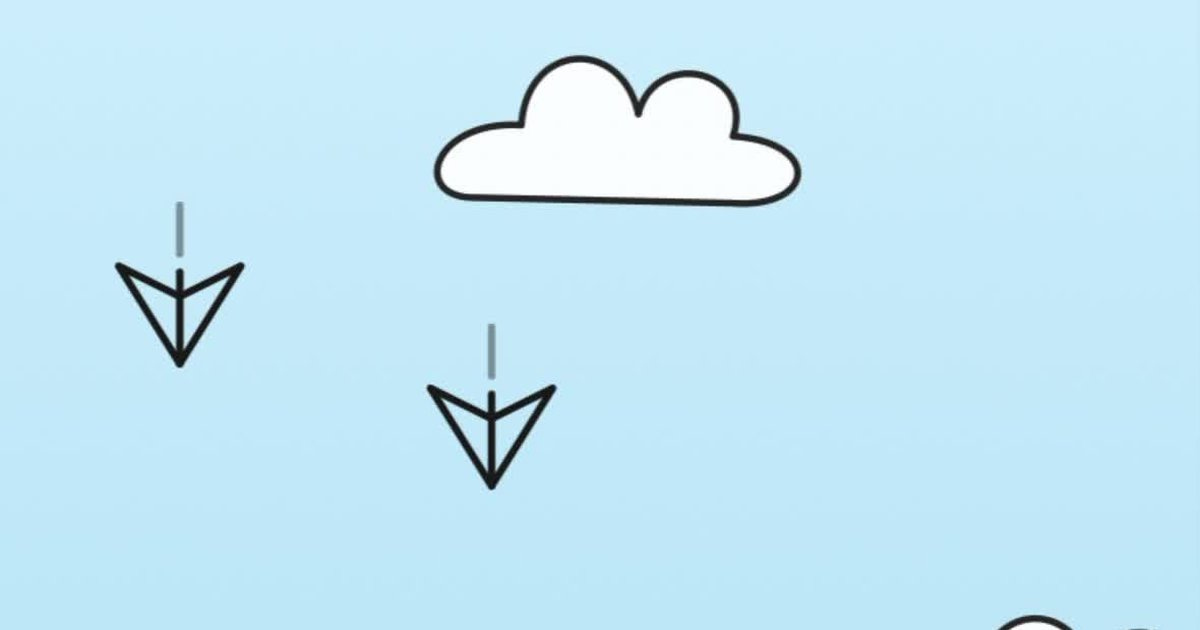
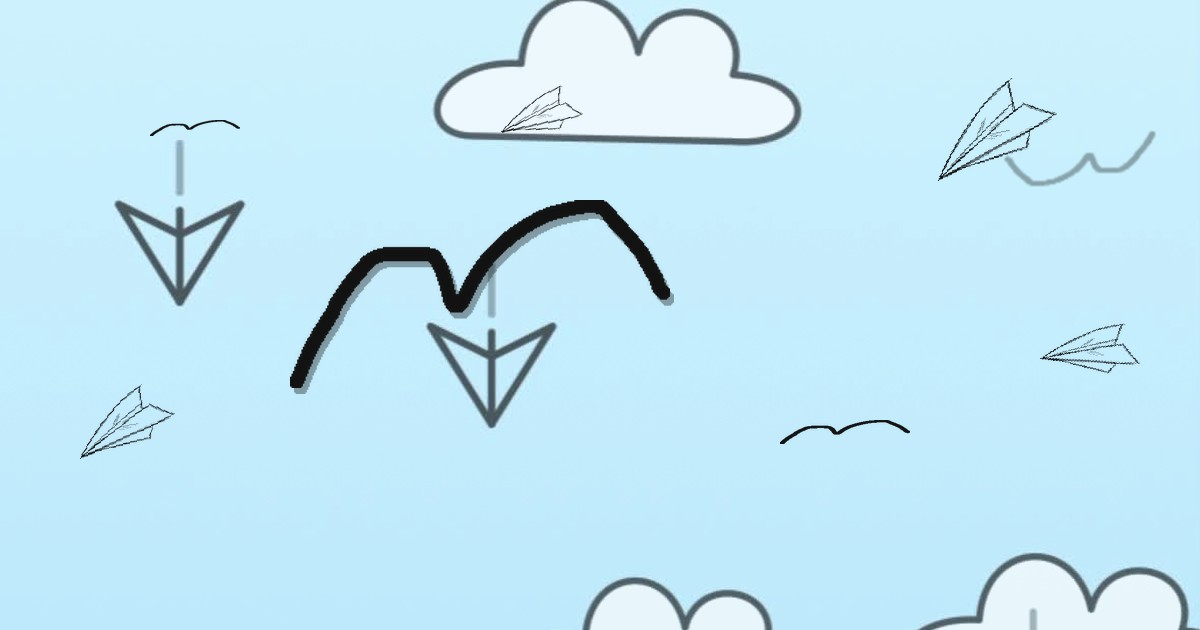
Richer OG with player bird; solid centered QR card

diff --git a/get/index.html b/get/index.html
@@ -13,7 +13,7 @@
 <meta property="og:url" content="https://playflyby.com/get" />
 <meta property="og:title" content="flyBy — free on the App Store" />
 <meta property="og:description" content="Free endless flyer. Drag to fly. Dodge the planes. US App Store." />
-<meta property="og:image" content="https://playflyby.com/art/og-share.png?v=2" />
+<meta property="og:image" content="https://playflyby.com/art/og-share.png?v=3" />
 <meta property="og:image:width" content="1200" />
 <meta property="og:image:height" content="630" />
 <meta property="og:image:alt" content="flyBy sky gameplay — drag to fly, dodge planes" />
@@ -21,7 +21,7 @@
 <meta name="twitter:card" content="summary_large_image" />
 <meta name="twitter:title" content="flyBy — free on the App Store" />
 <meta name="twitter:description" content="Free endless flyer. Drag to fly. Dodge the planes. US App Store." />
-<meta name="twitter:image" content="https://playflyby.com/art/og-share.png?v=2" />
+<meta name="twitter:image" content="https://playflyby.com/art/og-share.png?v=3" />
 
 <style>
   :root {
@@ -112,20 +112,28 @@
   .btn svg { flex-shrink: 0; }
   .qr-wrap {
     flex: 0 0 auto;
+    display: flex;
+    flex-direction: column;
+    align-items: center;
+    justify-content: center;
     text-align: center;
-    background: rgba(255,255,255,0.55);
+    background: #ffffff;
     border-radius: 20px;
-    padding: 16px;
+    padding: 18px 18px 14px;
+    box-shadow: 0 8px 24px rgba(20, 50, 80, 0.12);
+    margin-inline: auto;
   }
   .qr-wrap img {
     width: 148px;
     height: 148px;
     display: block;
-    border-radius: 8px;
+    margin: 0 auto;
+    object-fit: contain;
+    background: #ffffff;
   }
   .qr-wrap span {
     display: block;
-    margin-top: 8px;
+    margin-top: 10px;
     font-size: 13px;
     opacity: 0.8;
   }
@@ -156,7 +164,7 @@
 <main class="wrap">
   <div class="hero">
     <img
-      src="/art/og-share.png?v=2"
+      src="/art/og-share.png?v=3"
       width="1200"
       height="630"
       alt="flyBy sky gameplay — drag to fly, dodge planes"
@@ -181,7 +189,7 @@
       </a>
     </div>
     <div class="qr-wrap">
-      <img src="/art/qr-appstore.png" width="148" height="148" alt="QR code to download flyBy on the App Store" />
+      <img src="/art/qr-appstore.png?v=3" width="148" height="148" alt="QR code to download flyBy on the App Store" />
       <span>Scan to open on your phone</span>
     </div>
   </div>

diff --git a/index.html b/index.html
@@ -13,7 +13,7 @@
 <meta property="og:url" content="https://playflyby.com/" />
 <meta property="og:title" content="flyBy — free on the App Store" />
 <meta property="og:description" content="Free endless flyer. Drag to fly. Dodge the planes. US App Store." />
-<meta property="og:image" content="https://playflyby.com/art/og-share.png?v=2" />
+<meta property="og:image" content="https://playflyby.com/art/og-share.png?v=3" />
 <meta property="og:image:width" content="1200" />
 <meta property="og:image:height" content="630" />
 <meta property="og:image:alt" content="flyBy sky gameplay — drag to fly, dodge planes" />
@@ -21,7 +21,7 @@
 <meta name="twitter:card" content="summary_large_image" />
 <meta name="twitter:title" content="flyBy — free on the App Store" />
 <meta name="twitter:description" content="Free endless flyer. Drag to fly. Dodge the planes. US App Store." />
-<meta name="twitter:image" content="https://playflyby.com/art/og-share.png?v=2" />
+<meta name="twitter:image" content="https://playflyby.com/art/og-share.png?v=3" />
 
 <style>
   :root {
@@ -112,20 +112,28 @@
   .btn svg { flex-shrink: 0; }
   .qr-wrap {
     flex: 0 0 auto;
+    display: flex;
+    flex-direction: column;
+    align-items: center;
+    justify-content: center;
     text-align: center;
-    background: rgba(255,255,255,0.55);
+    background: #ffffff;
     border-radius: 20px;
-    padding: 16px;
+    padding: 18px 18px 14px;
+    box-shadow: 0 8px 24px rgba(20, 50, 80, 0.12);
+    margin-inline: auto;
   }
   .qr-wrap img {
     width: 148px;
     height: 148px;
     display: block;
-    border-radius: 8px;
+    margin: 0 auto;
+    object-fit: contain;
+    background: #ffffff;
   }
   .qr-wrap span {
     display: block;
-    margin-top: 8px;
+    margin-top: 10px;
     font-size: 13px;
     opacity: 0.8;
   }
@@ -156,7 +164,7 @@
 <main class="wrap">
   <div class="hero">
     <img
-      src="/art/og-share.png?v=2"
+      src="/art/og-share.png?v=3"
       width="1200"
       height="630"
       alt="flyBy sky gameplay — drag to fly, dodge planes"
@@ -181,7 +189,7 @@
       </a>
     </div>
     <div class="qr-wrap">
-      <img src="/art/qr-appstore.png" width="148" height="148" alt="QR code to download flyBy on the App Store" />
+      <img src="/art/qr-appstore.png?v=3" width="148" height="148" alt="QR code to download flyBy on the App Store" />
       <span>Scan to open on your phone</span>
     </div>
   </div>
